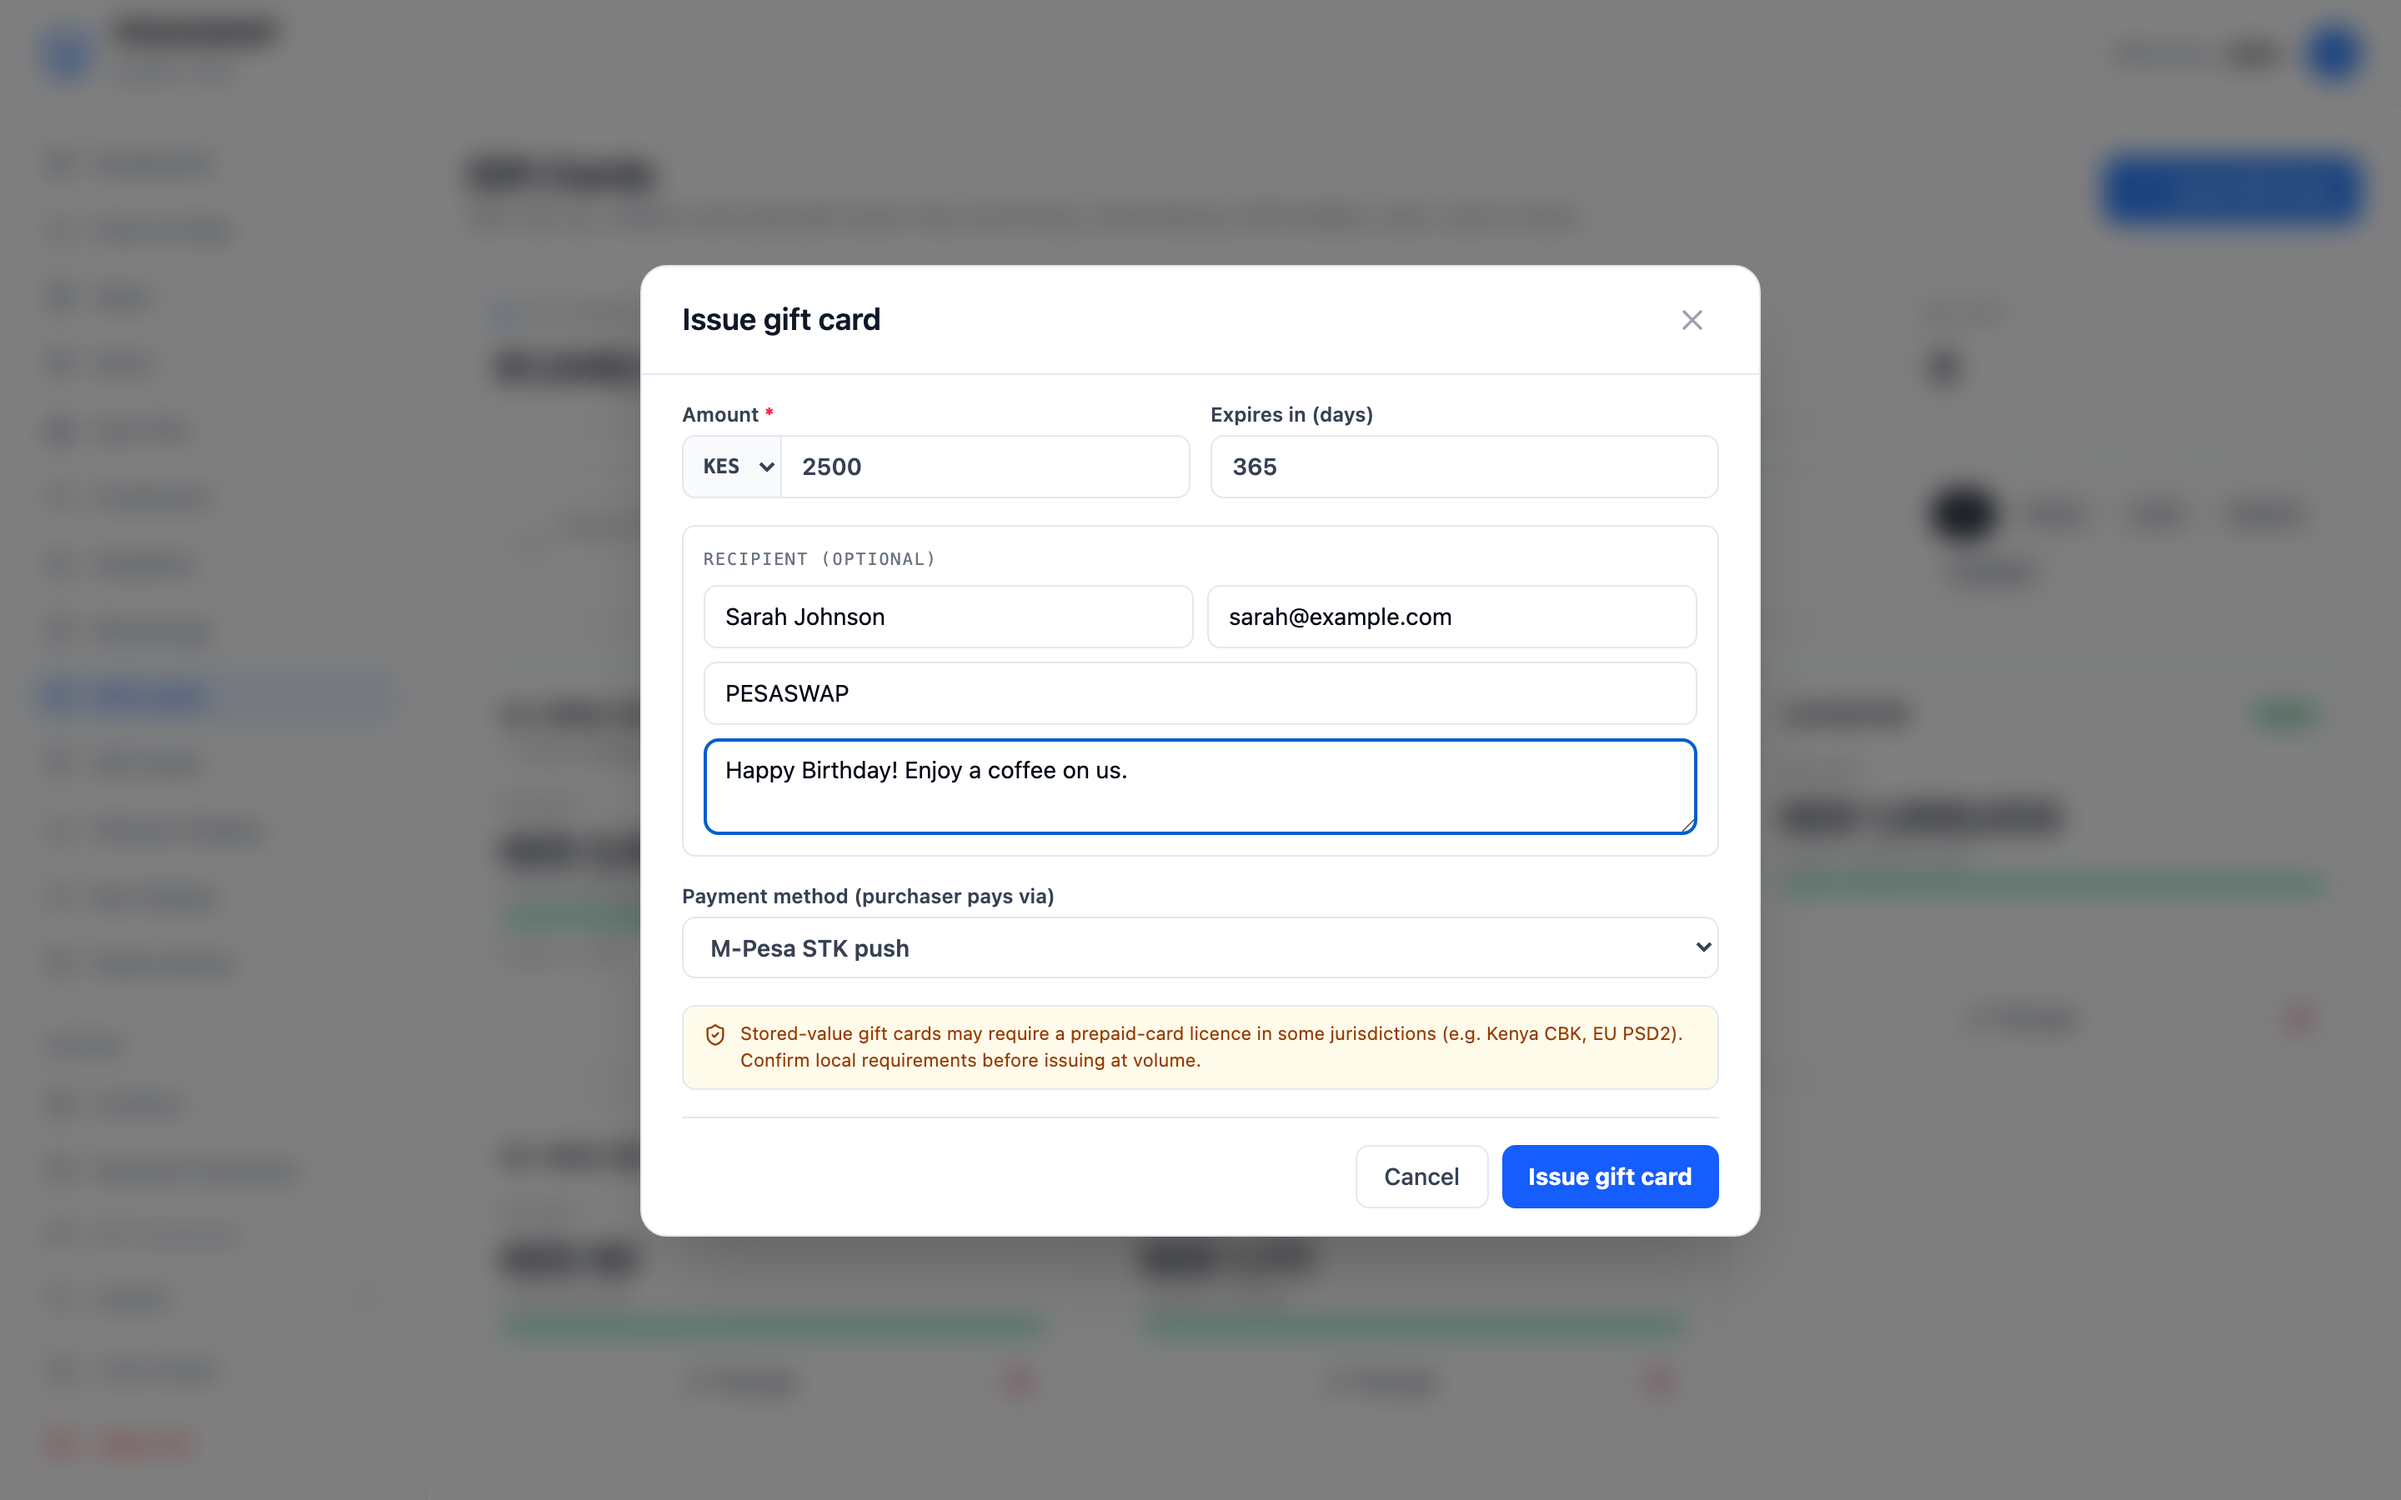
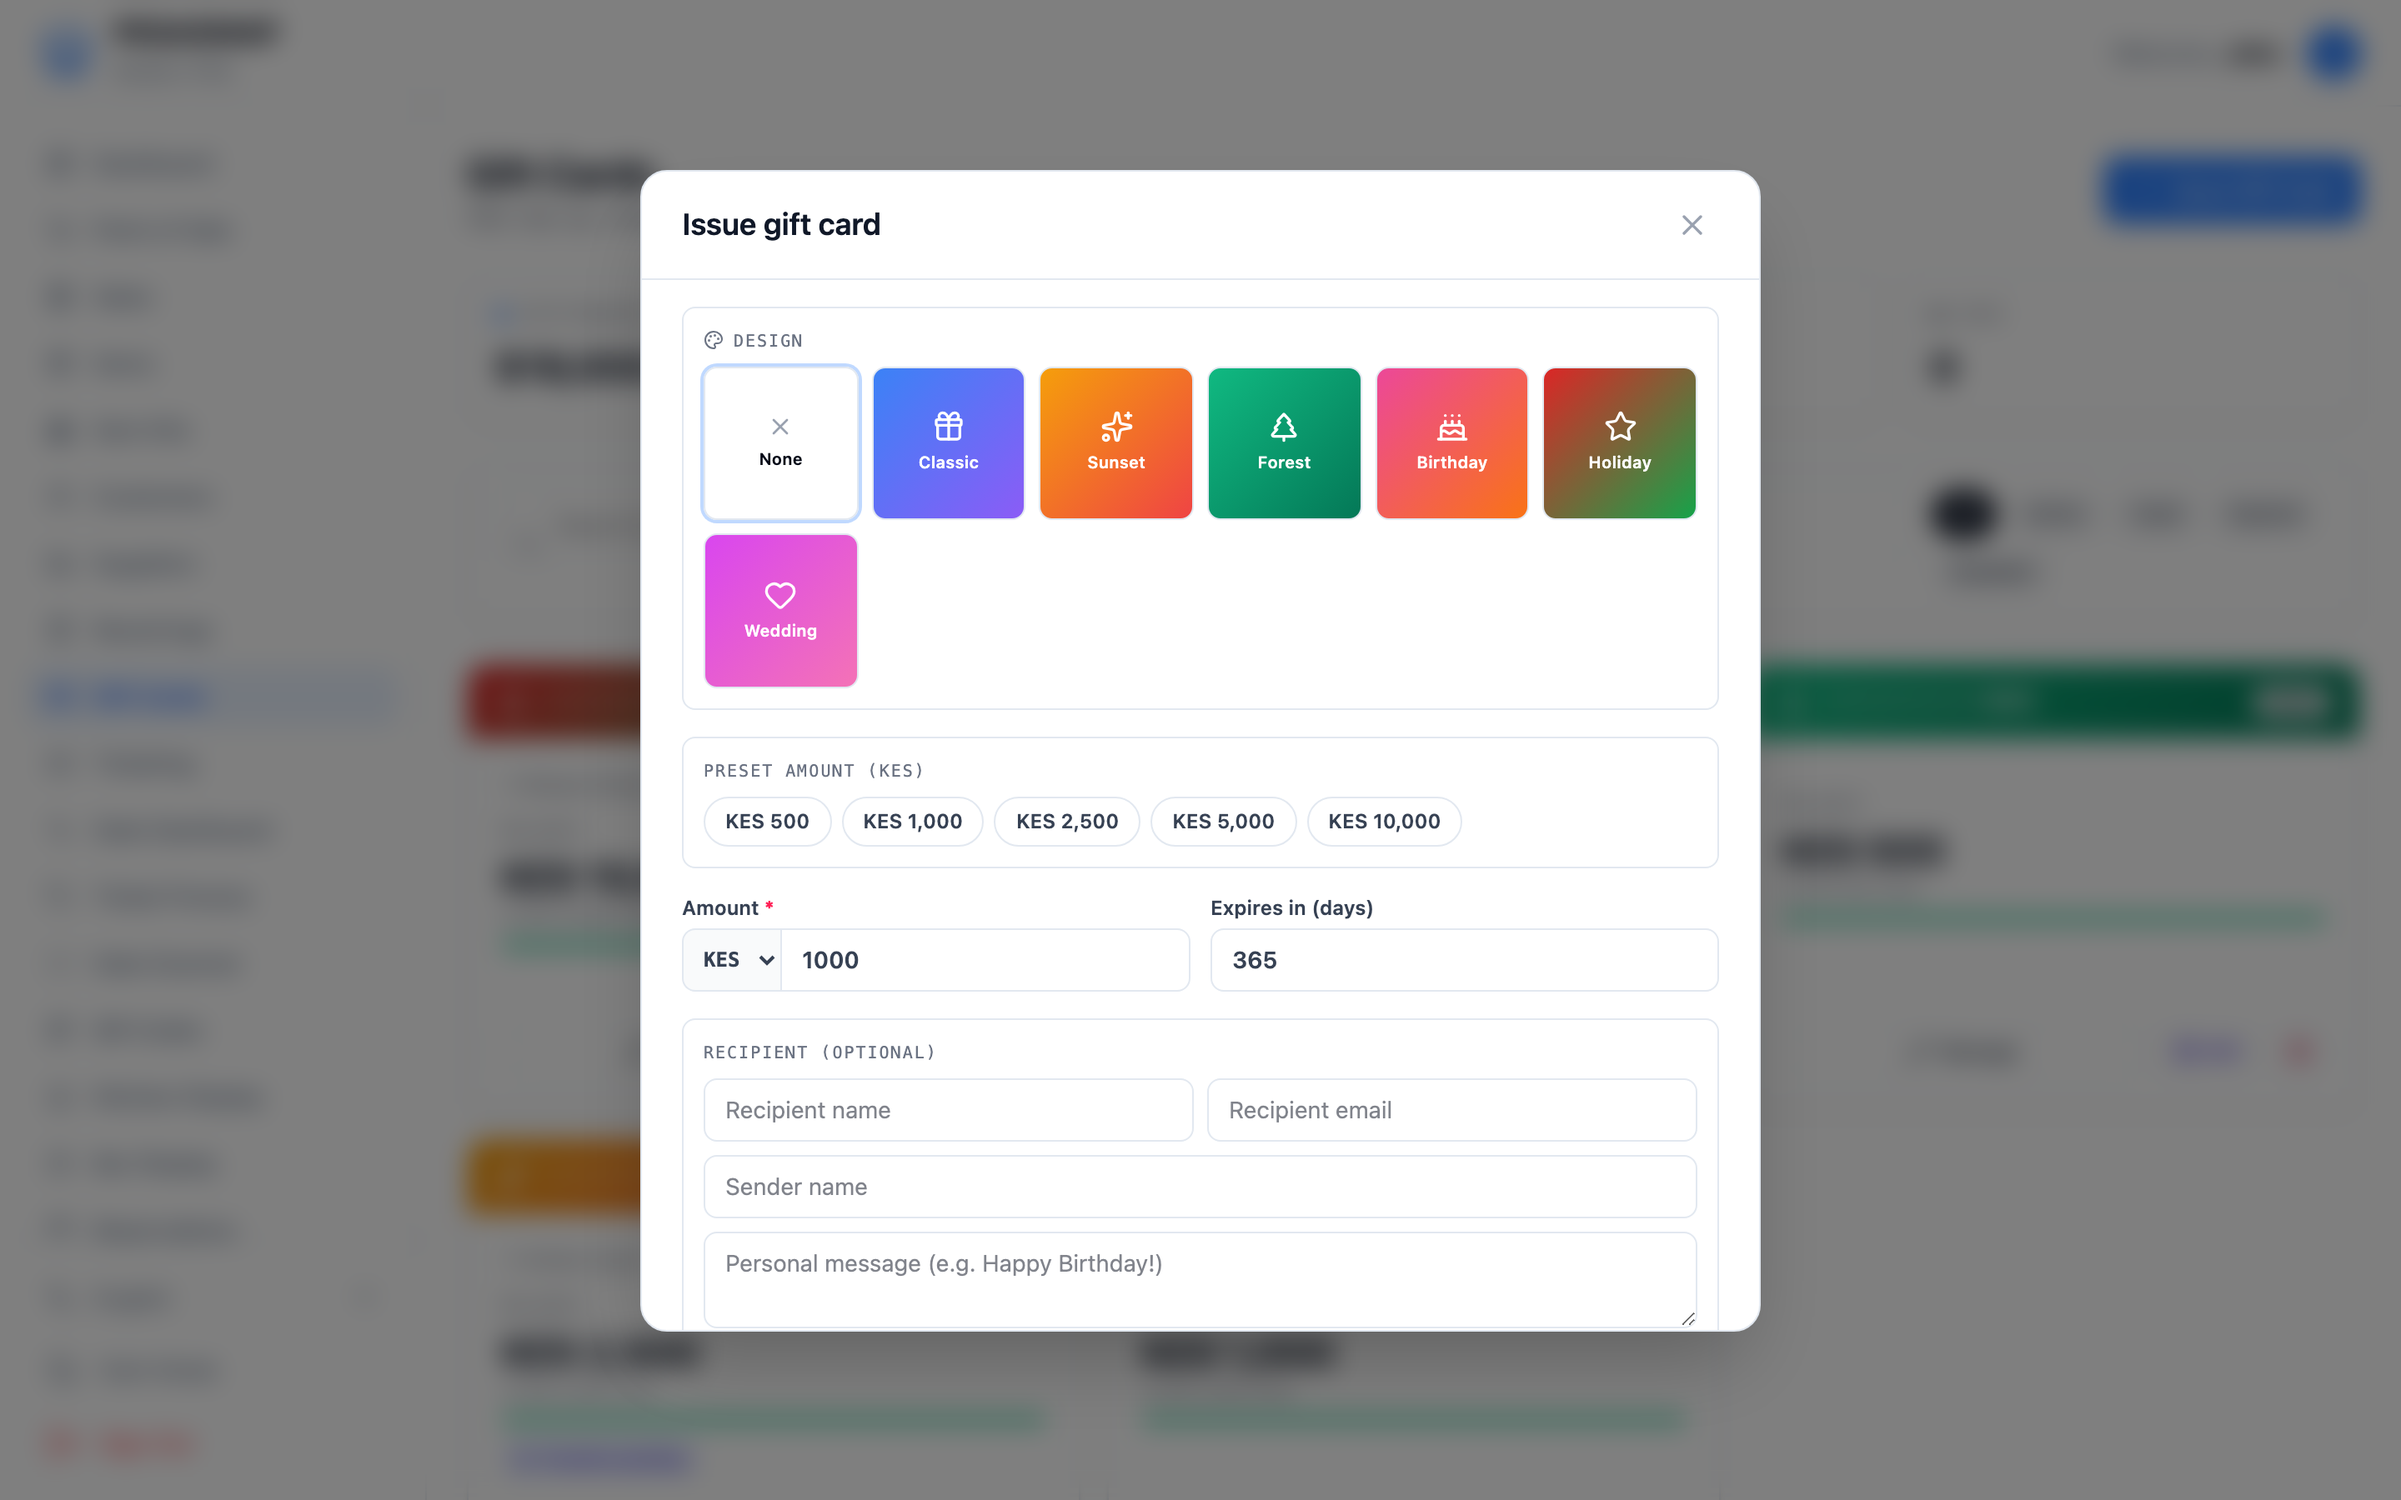
docs(screenshots): refresh + add 7 new screenshots for gift-cards/cashups/expenses/tickets-dashboard
Re-captures screenshots for pages that have substantively changed since the
initial batch and adds screenshots for the brand-new admin/customer pages.

Refreshed:
  - 02-dashboard, 04-kds, 05-customers — re-captured at 2x for crispness.
  - 15-giftcards-list — now shows the gradient design strips, 'Transfer pending'
    + 'Sends DATE' badges, and the Manage/Gift/Disable 3-button action row.
  - 16-giftcards-create — now shows the design picker (6 templates) +
    KES denomination chips + scheduled-delivery datetime input.
  - 17-giftcards-detail — now shows the pending-transfer banner with the
    'Cancel transfer' button and the 5-button actions row (incl. Send as gift).
  - 40-tickets-products — refreshed under the Phase 5 UI.
  - 13-items-list — was missing in the original batch.

New:
  - 18-giftcards-designs — admin CRUD for the visual templates (gradient +
    accent + text + lucide icon), seeded with Classic/Sunset/Forest/Birthday/
    Holiday/Wedding.
  - 19-giftcards-denominations — admin CRUD for preset amounts per currency,
    snapshotted onto issued cards so admin edits don't rewrite history.
  - 24-public-giftcard-transfer — mobile public accept page at
    /giftcard/transfer/:token. Holiday-design preview + sender + message +
    accept form. On submit the server rotates the giftcard_number and the
    sender's old code stops working.
  - 25-cashups — open/close lifecycle dashboard with live expected-cash
    breakdown and Balanced/Over/Short timeline.
[…]

diff --git a/README.md b/README.md
@@ -68,6 +68,45 @@ PESASWAP takes the proven OSPOS PHP backend (sales, customers, items, employees,
   </tr>
 </table>
 
+### Gift Cards — WeChat-parity modernization
+
+<table>
+  <tr>
+    <td align="center"><img src="docs/screenshots/15-giftcards-list.png" alt="Gift card list with design strips" width="100%"><br><sub><b>Gift Cards list</b> — gradient design strips, "Transfer pending" + "Sends DATE" badges, Manage / Gift / Disable actions</sub></td>
+    <td align="center"><img src="docs/screenshots/16-giftcards-create.png" alt="Issue gift card modal" width="100%"><br><sub><b>Issue Gift Card</b> — design picker (6 templates) + preset KES denomination chips + optional scheduled delivery</sub></td>
+  </tr>
+  <tr>
+    <td align="center"><img src="docs/screenshots/17-giftcards-detail.png" alt="Gift card detail with transfer banner" width="100%"><br><sub><b>Gift card detail</b> — QR + audit history + pending-transfer freeze banner (Redeem/Top-up/Refund/Adjust disabled while transfer pending)</sub></td>
+    <td align="center"><img src="docs/screenshots/24-public-giftcard-transfer.png" alt="Public accept-a-gift page" width="100%"><br><sub><b>/giftcard/transfer/:token</b> — public accept page (no auth). Accepts the gift → server rotates the code, sender's copy stops working.</sub></td>
+  </tr>
+  <tr>
+    <td align="center"><img src="docs/screenshots/18-giftcards-designs.png" alt="Gift card designs admin" width="100%"><br><sub><b>Designs admin</b> — CRUD gradient templates (background, accent, text, lucide icon) seeded with Classic/Sunset/Forest/Birthday/Holiday/Wedding</sub></td>
+    <td align="center"><img src="docs/screenshots/19-giftcards-denominations.png" alt="Gift card denominations admin" width="100%"><br><sub><b>Denominations admin</b> — preset amounts per currency, snapshotted onto issued cards so later edits don't rewrite history</sub></td>
+  </tr>
+</table>
+
+### Office — Cashups & Expenses
+
+<table>
+  <tr>
+    <td align="center"><img src="docs/screenshots/25-cashups.png" alt="Cashups lifecycle" width="100%"><br><sub><b>Cashups</b> — open-till / close-till lifecycle. Live "expected cash" from real sales/refunds/expenses; advisory <code>GET_LOCK</code> prevents two terminals opening a shift at once.</sub></td>
+    <td align="center"><img src="docs/screenshots/26-expenses.png" alt="Expenses" width="100%"><br><sub><b>Expenses</b> — date / category / payment-type / employee with monthly total banner.</sub></td>
+  </tr>
+</table>
+
+### Tickets — operations
+
+<table>
+  <tr>
+    <td align="center"><img src="docs/screenshots/40-tickets-products.png" alt="Ticket products" width="100%"><br><sub><b>Tickets</b> — products + sessions + tiers (meeting / scenic / movie / transport subtypes)</sub></td>
+    <td align="center"><img src="docs/screenshots/44-tickets-dashboard.png" alt="Tickets gate dashboard" width="100%"><br><sub><b>Gate Dashboard</b> — live redemptions + no-shows + per-scanner stats</sub></td>
+  </tr>
+  <tr>
+    <td align="center"><img src="docs/screenshots/42-tickets-redeem.png" alt="Ticket redemption" width="100%"><br><sub><b>Ticket redemption</b> — JWT-signed QR, single-use enforcement, per-device scanner audit</sub></td>
+    <td align="center"><img src="docs/screenshots/43-public-ticket.png" alt="Public ticket page" width="100%"><br><sub><b>/t/:code</b> — customer ticket page (Apple/Google Wallet passes + ICS calendar)</sub></td>
+  </tr>
+</table>
+
 ### Mobile (customer-facing, public, PWA-installable)
 
 <table>
